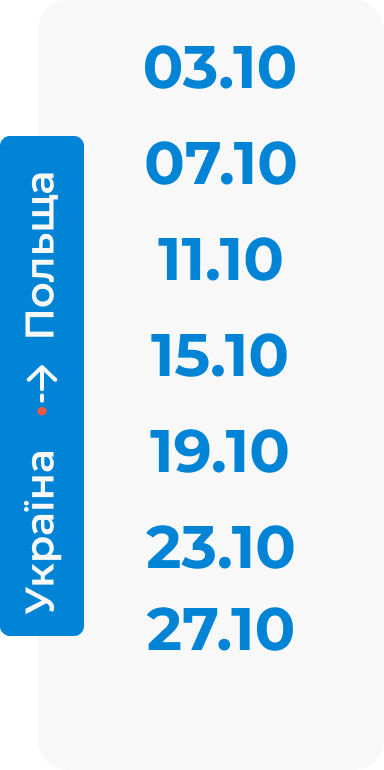
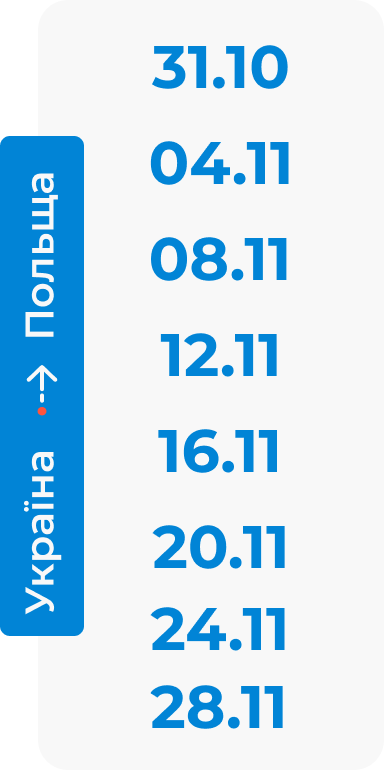
new

diff --git a/src/components/Calendar/Calendar.tsx b/src/components/Calendar/Calendar.tsx
@@ -11,7 +11,7 @@ const Calendar = () => {
   return (
       <section className={styles.container}>
           <div className={styles.imgCont}><Image 
-  src="/image/calendar10.png" 
+  src="/image/calendar11.png" 
   alt="Опис зображення"
               width={352}
               height={352}
